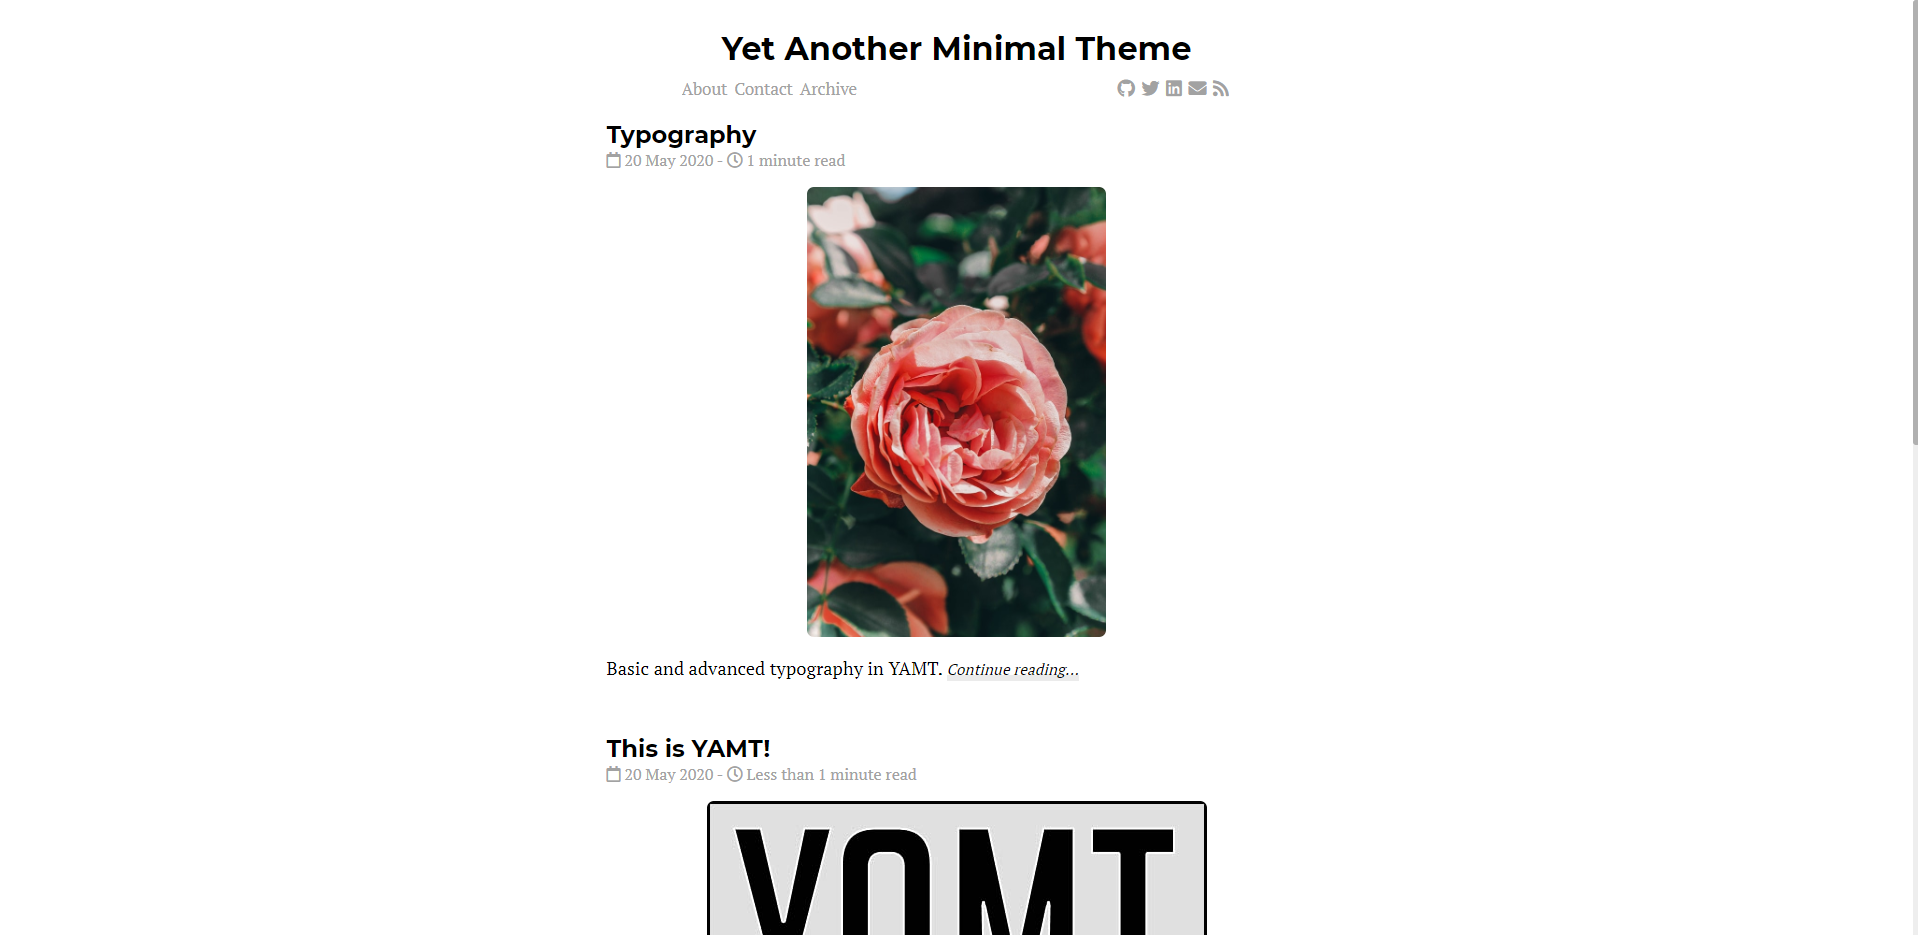
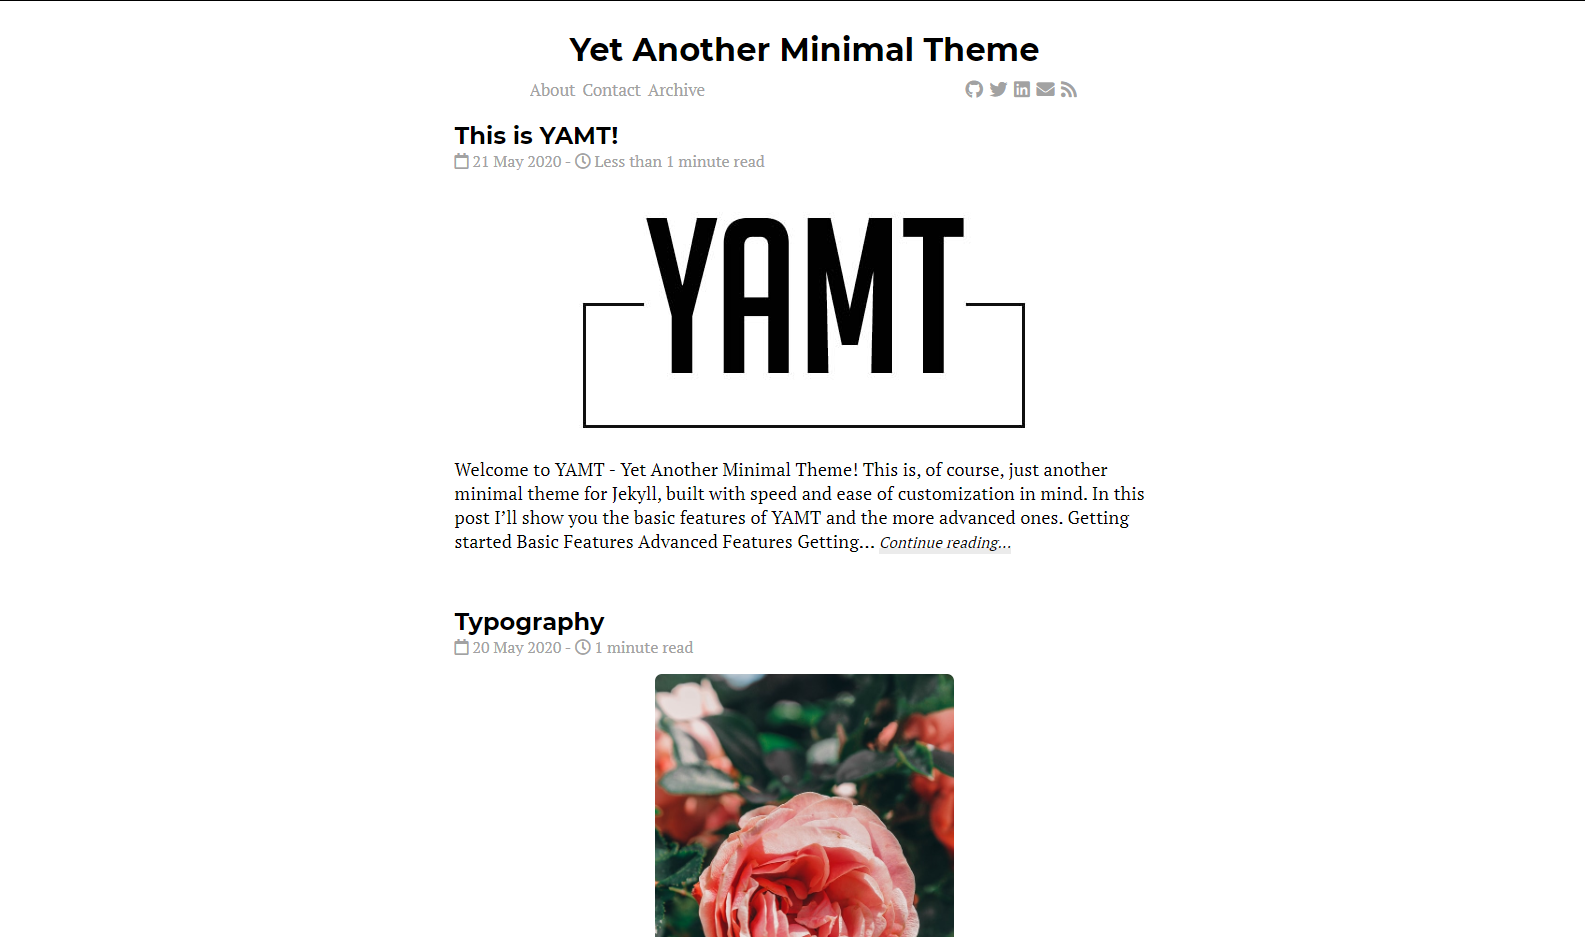
Fixed lazyload test

Changed region(s): [[0.2782, 0.031, 0.711, 1.0], [0.9893, 0.0, 1.0, 0.4652]]

diff --git a/_posts/2020-05-19-ladyload.md b/_posts/2020-05-19-ladyload.md
@@ -7,44 +7,9 @@ description: "Let's get this theme to work!"
 ---
 
 {% include image.html src="/assets/img/airplane.jpg" alt="Plane" title="airplane" %}
-{% include image.html src="/assets/img/airplane.jpg" alt="Plane" title="airplane" %}
-{% include image.html src="/assets/img/airplane.jpg" alt="Plane" title="airplane" %}
-{% include image.html src="/assets/img/airplane.jpg" alt="Plane" title="airplane" %}
-{% include image.html src="/assets/img/airplane.jpg" alt="Plane" title="airplane" %}
-{% include image.html src="/assets/img/airplane.jpg" alt="Plane" title="airplane" %}
-{% include image.html src="/assets/img/airplane.jpg" alt="Plane" title="airplane" %}
-{% include image.html src="/assets/img/airplane.jpg" alt="Plane" title="airplane" %}
-{% include image.html src="/assets/img/airplane.jpg" alt="Plane" title="airplane" %}
-{% include image.html src="/assets/img/airplane.jpg" alt="Plane" title="airplane" %}
-{% include image.html src="/assets/img/airplane.jpg" alt="Plane" title="airplane" %}
-{% include image.html src="/assets/img/airplane.jpg" alt="Plane" title="airplane" %}
-{% include image.html src="/assets/img/airplane.jpg" alt="Plane" title="airplane" %}
-{% include image.html src="/assets/img/airplane.jpg" alt="Plane" title="airplane" %}
-{% include image.html src="/assets/img/airplane.jpg" alt="Plane" title="airplane" %}
-{% include image.html src="/assets/img/airplane.jpg" alt="Plane" title="airplane" %}
-{% include image.html src="/assets/img/airplane.jpg" alt="Plane" title="airplane" %}
-{% include image.html src="/assets/img/airplane.jpg" alt="Plane" title="airplane" %}
-{% include image.html src="/assets/img/airplane.jpg" alt="Plane" title="airplane" %}
-{% include image.html src="/assets/img/airplane.jpg" alt="Plane" title="airplane" %}
-{% include image.html src="/assets/img/airplane.jpg" alt="Plane" title="airplane" %}
-{% include image.html src="/assets/img/airplane.jpg" alt="Plane" title="airplane" %}
-{% include image.html src="/assets/img/airplane.jpg" alt="Plane" title="airplane" %}
-{% include image.html src="/assets/img/airplane.jpg" alt="Plane" title="airplane" %}
-{% include image.html src="/assets/img/airplane.jpg" alt="Plane" title="airplane" %}
-{% include image.html src="/assets/img/airplane.jpg" alt="Plane" title="airplane" %}
-{% include image.html src="/assets/img/airplane.jpg" alt="Plane" title="airplane" %}
-{% include image.html src="/assets/img/airplane.jpg" alt="Plane" title="airplane" %}
-{% include image.html src="/assets/img/airplane.jpg" alt="Plane" title="airplane" %}
-{% include image.html src="/assets/img/airplane.jpg" alt="Plane" title="airplane" %}
-{% include image.html src="/assets/img/airplane.jpg" alt="Plane" title="airplane" %}
-{% include image.html src="/assets/img/airplane.jpg" alt="Plane" title="airplane" %}
-{% include image.html src="/assets/img/airplane.jpg" alt="Plane" title="airplane" %}
-{% include image.html src="/assets/img/airplane.jpg" alt="Plane" title="airplane" %}
-{% include image.html src="/assets/img/airplane.jpg" alt="Plane" title="airplane" %}
-{% include image.html src="/assets/img/airplane.jpg" alt="Plane" title="airplane" %}
-{% include image.html src="/assets/img/airplane.jpg" alt="Plane" title="airplane" %}
-{% include image.html src="/assets/img/airplane.jpg" alt="Plane" title="airplane" %}
-{% include image.html src="/assets/img/airplane.jpg" alt="Plane" title="airplane" %}
-{% include image.html src="/assets/img/airplane.jpg" alt="Plane" title="airplane" %}
-{% include image.html src="/assets/img/airplane.jpg" alt="Plane" title="airplane" %}
-{% include image.html src="/assets/img/airplane.jpg" alt="Plane" title="airplane" %}
+{% include image.html src="/assets/img/rotation.jpg" alt="Plane" title="airplane" %}
+{% include image.html src="/assets/img/logo.jpg" alt="Plane" title="airplane" %}
+{% include image.html src="/assets/img/mountain.jpg" alt="Plane" title="airplane" %}
+{% include image.html src="/assets/img/rose.jpg" alt="Plane" title="airplane" %}
+{% include image.html src="/assets/img/forest-snow.jpg" alt="Plane" title="airplane" %}
+{% include image.html src="/assets/img/rotation.gif" alt="Plane" title="airplane" %}
